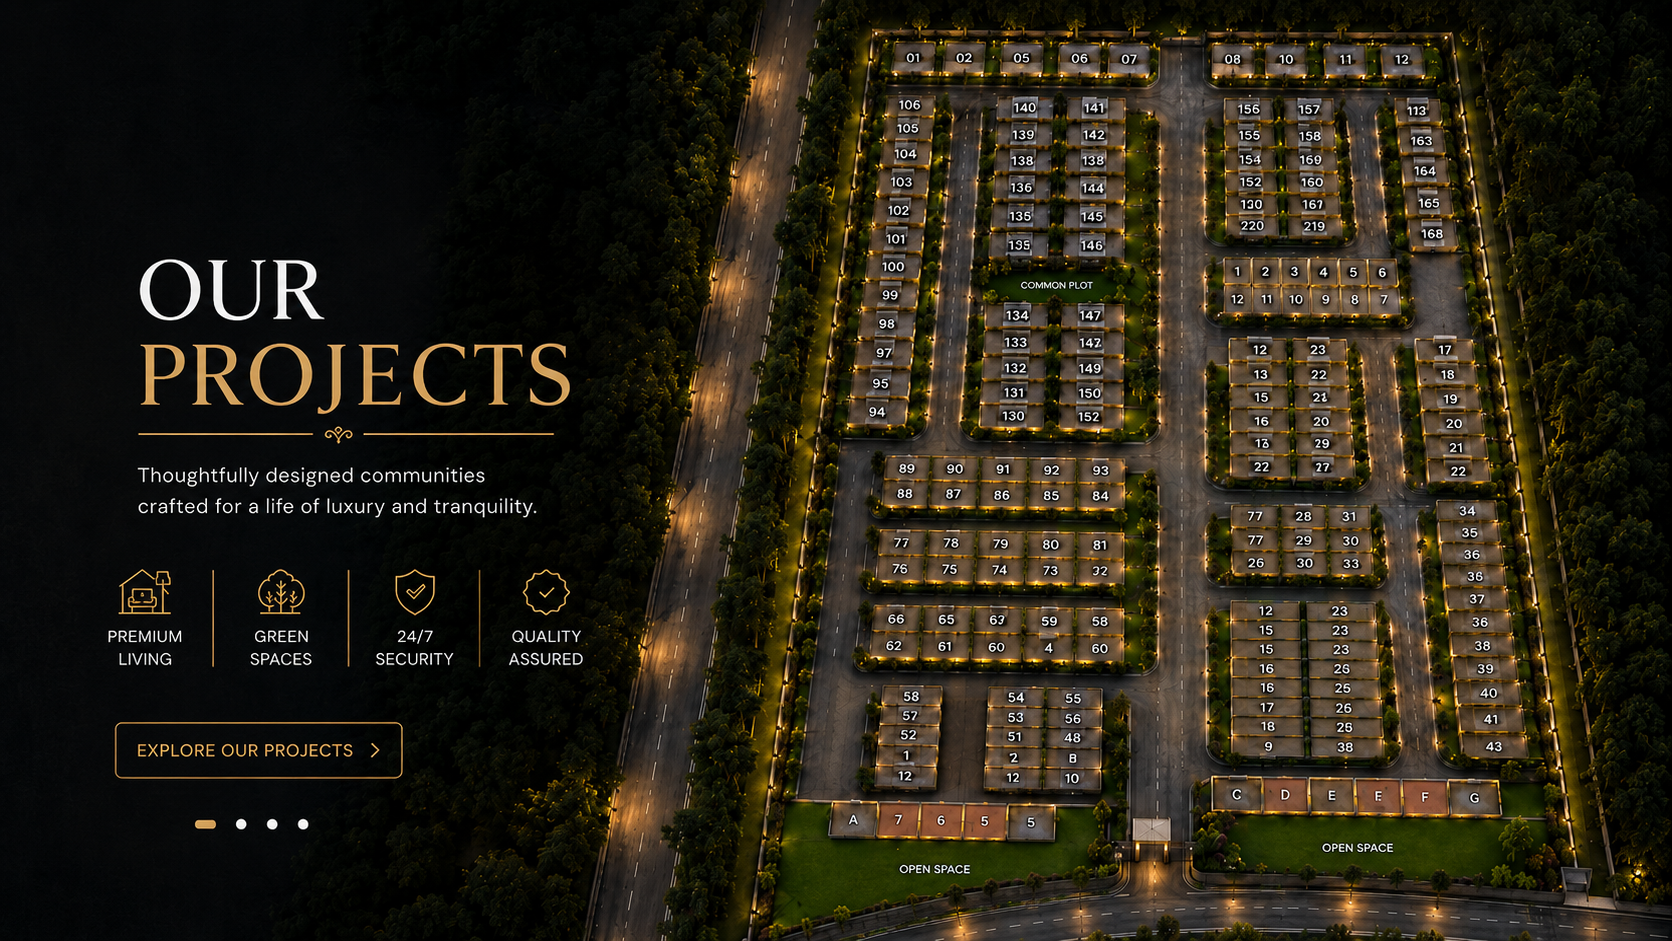
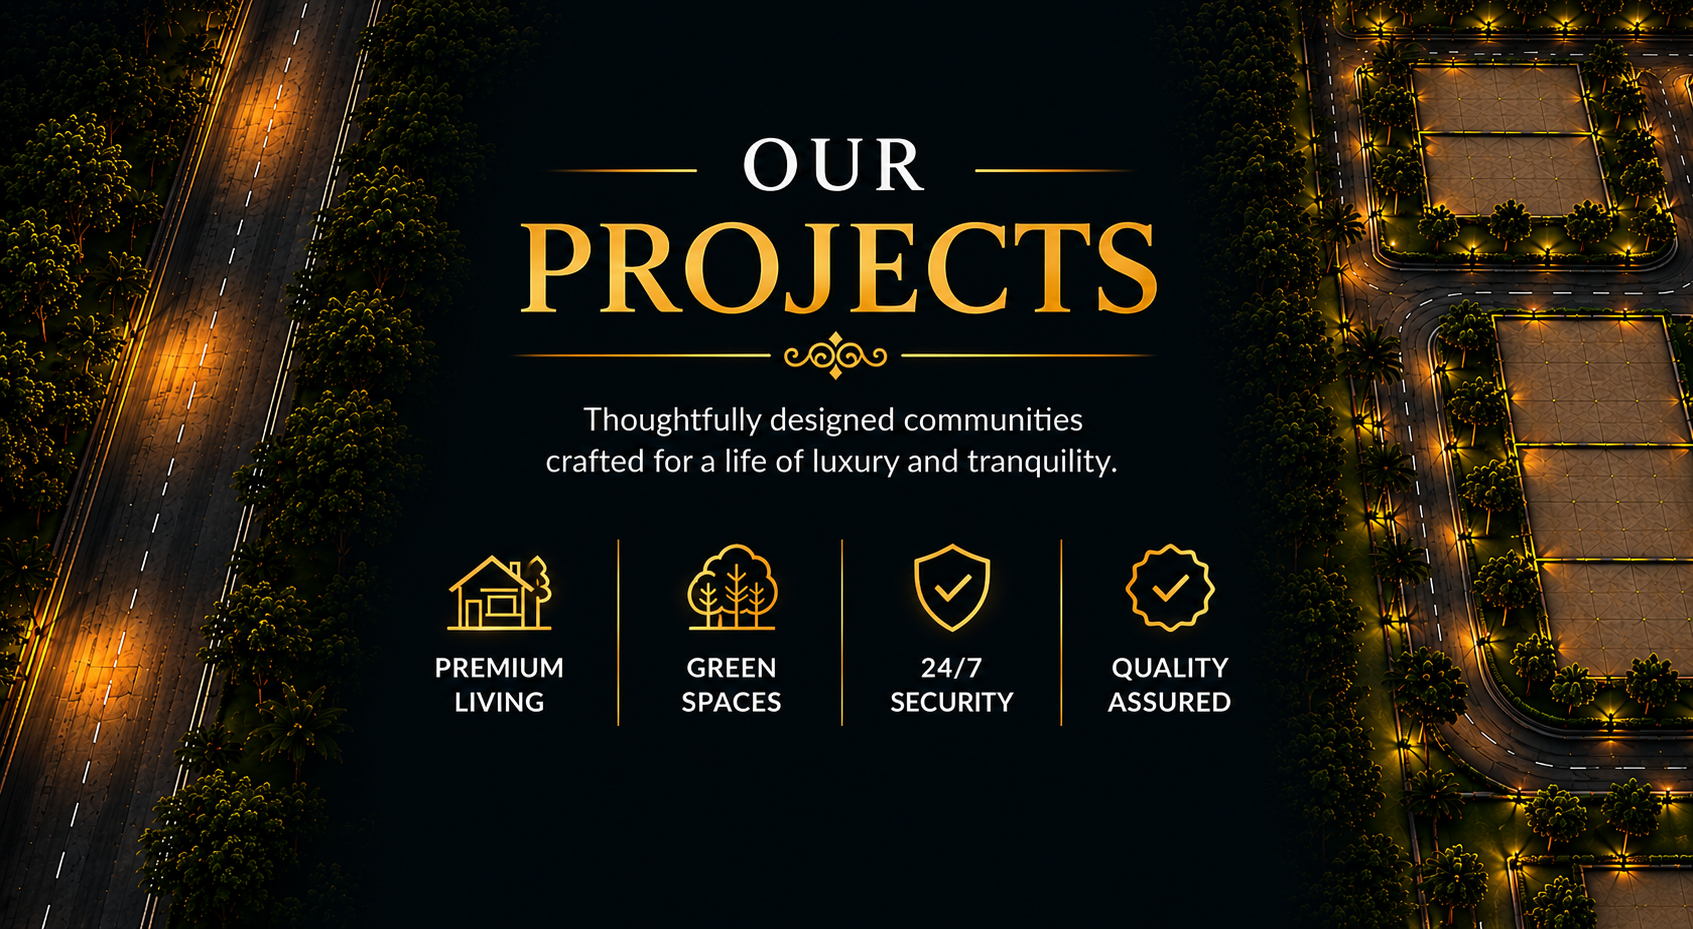
done

diff --git a/src/pages/AboutPage.jsx b/src/pages/AboutPage.jsx
@@ -156,27 +156,57 @@ export default function AboutPage({ onNavigate }) {
           </div>
         </section>
 
-        <section className="page-section page-section--spaced">
-          <div className="page-highlight-band page-card">
-            <div>
-              <div className="section-label">Why It Matters</div>
-              <h2 className="page-heading">A refined first impression creates stronger trust before the site visit even begins.</h2>
-              <p className="page-copy">
-                This page is designed as an extension of the home page rather than a disconnected template. The
-                result is a more cohesive brand experience, which helps the business feel larger, sharper, and more
-                premium across touchpoints.
-              </p>
-            </div>
+<section className="page-section page-section--spaced">
+  <div className="page-highlight-band page-card">
+    <div>
+      <div className="section-label">Why It Matters</div>
+      <h2 className="page-heading">Why Lothal Is Becoming a High-Potential Real Estate Destination</h2>
+      <p className="page-copy" style={{ marginBottom: '8px' }}>Lothal enjoys a strong locational advantage because it lies close to:</p>
+      <ul style={{ paddingLeft: '18px', margin: '0 0 12px', color: 'inherit' }}>
+        <li className="page-copy" style={{ marginBottom: '4px' }}>Dholera SIR Activation Zone</li>
+        <li className="page-copy" style={{ marginBottom: '4px' }}>Ahmedabad–Dholera Expressway</li>
+        <li className="page-copy" style={{ marginBottom: '4px' }}>Dholera International Airport corridor</li>
+        <li className="page-copy" style={{ marginBottom: '4px' }}>Future industrial and semiconductor zones</li>
+        <li className="page-copy">Logistics and manufacturing hubs</li>
+      </ul>
+      <p style={{ fontFamily: 'var(--font-body)', fontSize: '16px', fontWeight: '700', color: '#e8d09a', marginBottom: '12px' }}>
+  This creates a powerful combination of:
+</p>
+      <ul style={{ paddingLeft: '18px', margin: '0 0 12px', color: 'rgba(255,255,255,0.78)' }}>
+  <li style={{ fontFamily: 'var(--font-body)', fontSize: '16px', marginBottom: '8px' }}>Tourism growth</li>
+  <li style={{ fontFamily: 'var(--font-body)', fontSize: '16px', marginBottom: '8px' }}>Industrial development</li>
+  <li style={{ fontFamily: 'var(--font-body)', fontSize: '16px', marginBottom: '8px' }}>Future employment generation</li>
+  <li style={{ fontFamily: 'var(--font-body)', fontSize: '16px' }}>Real estate appreciation potential</li>
+</ul>
+    </div>
 
-            <div className="page-highlight-list">
-              {HIGHLIGHTS.map((item) => (
-                <div key={item} className="page-highlight-item">{item}</div>
-              ))}
-              <button className="gold-btn" onClick={() => onNavigate?.("/contact-us")}>Plan A Visit</button>
-            </div>
-          </div>
-        </section>
-      </main>
+    <div className="page-highlight-list" style={{ justifyContent: 'flex-start', paddingTop: '70px' }}>
+  <h3 style={{ fontFamily: 'var(--font-heading)', fontSize: '26px', fontWeight: '600', color: '#e8d09a', margin: '0 0 8px' }}>
+    The Perfect Blend of Heritage + Future Infrastructure
+  </h3>
+  <p style={{ fontFamily: 'var(--font-body)', fontSize: '16px', fontWeight: '600', color: 'rgba(255,255,255,0.55)', marginBottom: '14px' }}>
+    Ancient Legacy. Modern Opportunity.
+  </p>
+  <p className="page-copy" style={{ color: 'rgba(255,255,255,0.78)', fontSize: '16px', marginBottom: '12px' }}>
+    More than 4,500 years ago, traders from Mesopotamia connected with Lothal through maritime trade routes. Today, the same land is reconnecting with the future through:
+  </p>
+  <ul style={{ paddingLeft: '18px', margin: '0 0 12px', color: 'rgba(255,255,255,0.78)' }}>
+    <li style={{ fontFamily: 'var(--font-body)', fontSize: '16px', marginBottom: '4px' }}>Smart infrastructure</li>
+    <li style={{ fontFamily: 'var(--font-body)', fontSize: '16px', marginBottom: '4px' }}>Industrial expansion</li>
+    <li style={{ fontFamily: 'var(--font-body)', fontSize: '16px', marginBottom: '4px' }}>Tourism development</li>
+    <li style={{ fontFamily: 'var(--font-body)', fontSize: '16px', marginBottom: '4px' }}>Global investment interest</li>
+    <li style={{ fontFamily: 'var(--font-body)', fontSize: '16px' }}>Government-backed mega projects</li>
+  </ul>
+  <p style={{ fontFamily: 'var(--font-body)', fontSize: '16px', color: 'rgba(255,255,255,0.78)', marginBottom: '20px' }}>
+    Lothal is no longer just an archaeological destination — it is evolving into a future-ready growth ecosystem.
+  </p>
+  <button className="gold-btn" onClick={() => window.open('https://wa.me/916384800001', '_blank')}>
+    Plan A Visit
+  </button>
+</div>
+  </div>
+</section>
+ </main>
     </div>
   );
 }

diff --git a/src/Components/About.jsx b/src/Components/About.jsx
@@ -157,7 +157,7 @@ export default function About() {
               <div className="ae-img-photo">
                 <img
                   src={doleaImg}
-                  alt="Lothal Smart City — Anandam Homes"
+                  alt="Lothal Smart City — Anandam"
                   className="ae-img-bg"
                 />
                 <div className="ae-img-overlay" aria-hidden="true" />
@@ -180,7 +180,7 @@ export default function About() {
             ref={contentRef}
             className={`ae-content ae-reveal-right${contentVisible ? " vis" : ""}`}
           >
-            <div className="ae-eyebrow">About Anandam Homes</div>
+            <div className="ae-eyebrow">About Anandam </div>
 
             <h2 className="ae-heading">
               Invest in India&apos;s
@@ -200,6 +200,15 @@ export default function About() {
               Anandam Exotica brings you an exclusive opportunity to own premium residential plots
               in this landmark development.
             </p>
+            <p className="ae-desc">
+             The Future Begins Here
+Dholera Smart City is India's most ambitious infrastructure and industrial development project, designed to become a global hub for innovation, manufacturing, and sustainable urban living.
+
+
+A City Built for Tomorrow
+Positioned as a key growth engine of Gujarat, Dholera is attracting industries, investors, entrepreneurs, and visionaries from across the globe.
+            </p>
+            
 
             <div className="ae-counters" ref={countersRef}>
               {stats.map((s) => (

diff --git a/src/Components/Hero.jsx b/src/Components/Hero.jsx
@@ -3,6 +3,7 @@ import "./Hero.css";
 import Anandamhomes1 from "../assets/AnnandamHomes1.png";
 import logoImg from "../assets/anandamhomeslogo.png";
 import Anandamslider2 from "../assets/Anandamslider2.png";
+import Anandamslider3 from "../assets/sliderhome3.png";
 import { useCallModal } from "../context/CallModalContext";
 
 const ChevronDown = () => (
@@ -25,7 +26,7 @@ const SLIDES = [
     tagline: <>Designed for families, end users,<br />and long-term confidence.</>,
   },
   {
-    bg: "https://images.unsplash.com/photo-1600585154340-be6161a56a0c?w=1600&q=85&auto=format&fit=crop",
+    bg: Anandamslider3,
     pos: "center 40%",
     headline: <>A Better<br />Address Ahead</>,
     tagline: <>Infrastructure-led growth, refined presentation,<br />and a smoother buying journey.</>,

diff --git a/src/pages/PageShell.css b/src/pages/PageShell.css
@@ -423,6 +423,7 @@
   color: #fff;
   overflow: hidden;
   padding: 0;
+  align-items: start;
 }
 
 .page-highlight-band > div:first-child {